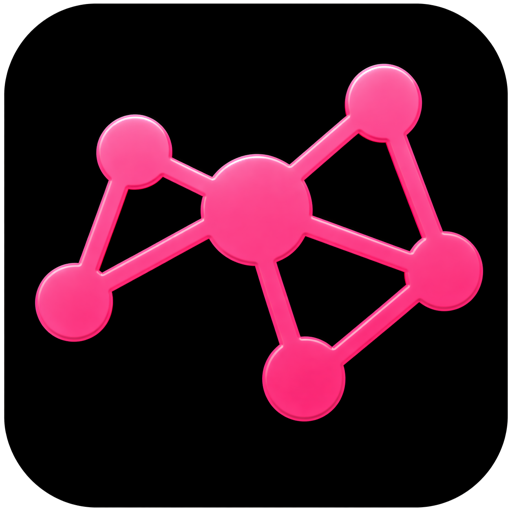
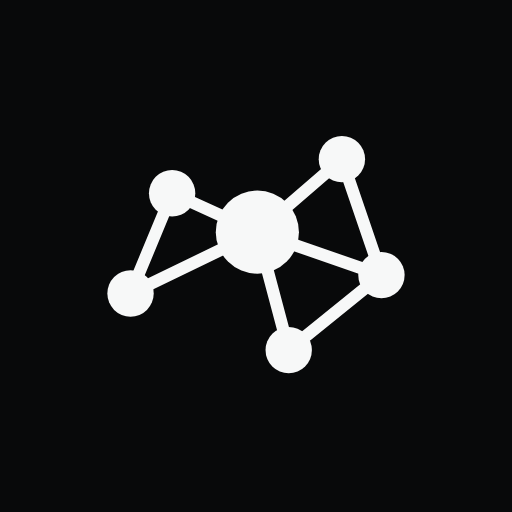
POL-49: the Polynet mark in black and white everywhere (#334)
One mark definition (scripts/generate_brand_icons.mjs, `npm run
brand:icons`): the original hub-and-five network, hub 1.8x a member,
medium links, white on #08090A. Writes a vector favicon.svg and
brand/polynet-mark.svg (currentColor), and renders favicon 16 (simplified
hub + three for tab size), 32, 512, a 16/32/48 favicon.ico, the landing
logo, the 180 apple-touch icon and 192/512 maskable app icons (full-bleed,
mark inside the safe zone). Icon and manifest links are cache-busted to
v=20261105a. Emails, onboarding and the MCP card pick it up by path.

Changed region(s): [[0.0, 0.0, 1.0, 1.0]]

diff --git a/apps/web/index.html b/apps/web/index.html
@@ -40,13 +40,13 @@
           ?.setAttribute("content", definition.browserColor);
       })();
     </script>
-    <link rel="manifest" href="%BASE_URL%manifest.webmanifest?v=20260811a" />
-    <link rel="icon" href="%BASE_URL%favicon.ico?v=20260425a" sizes="any" />
-    <link rel="icon" type="image/svg+xml" href="%BASE_URL%favicon.svg?v=20260425a" />
-    <link rel="icon" type="image/png" sizes="32x32" href="%BASE_URL%favicon-32x32.png?v=20260425a" />
-    <link rel="icon" type="image/png" sizes="16x16" href="%BASE_URL%favicon-16x16.png?v=20260425a" />
-    <link rel="icon" type="image/png" sizes="512x512" href="%BASE_URL%favicon.png?v=20260425a" />
-    <link rel="apple-touch-icon" href="%BASE_URL%apple-touch-icon.png?v=20260425a" />
+    <link rel="manifest" href="%BASE_URL%manifest.webmanifest?v=20261105a" />
+    <link rel="icon" href="%BASE_URL%favicon.ico?v=20261105a" sizes="any" />
+    <link rel="icon" type="image/svg+xml" href="%BASE_URL%favicon.svg?v=20261105a" />
+    <link rel="icon" type="image/png" sizes="32x32" href="%BASE_URL%favicon-32x32.png?v=20261105a" />
+    <link rel="icon" type="image/png" sizes="16x16" href="%BASE_URL%favicon-16x16.png?v=20261105a" />
+    <link rel="icon" type="image/png" sizes="512x512" href="%BASE_URL%favicon.png?v=20261105a" />
+    <link rel="apple-touch-icon" href="%BASE_URL%apple-touch-icon.png?v=20261105a" />
     <title>Polynet</title>
   </head>
   <body>

diff --git a/scripts/app_theme_contract_proof.ts b/scripts/app_theme_contract_proof.ts
@@ -577,7 +577,7 @@ assert.doesNotMatch(
   "theme family must not survive as a second styling authority",
 );
 assert.match(indexHtml, /<meta name="theme-color" content="#08090A"/);
-assert.match(indexHtml, /manifest\.webmanifest\?v=20260811a/);
+assert.match(indexHtml, /manifest\.webmanifest\?v=20261105a/);
 assert.match(manifest, /"start_url": "\/m\?launch=app"/);
 assert.match(manifest, /"background_color": "#08090A"/);
 assert.match(manifest, /"theme_color": "#08090A"/);
